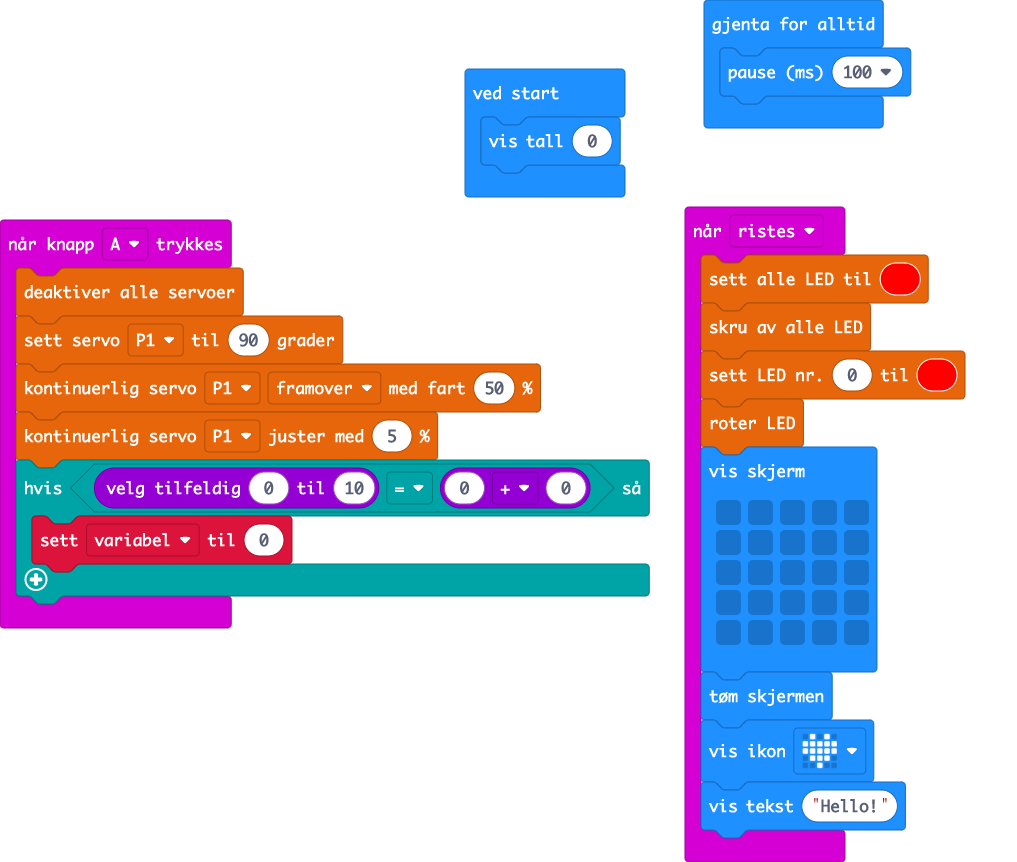
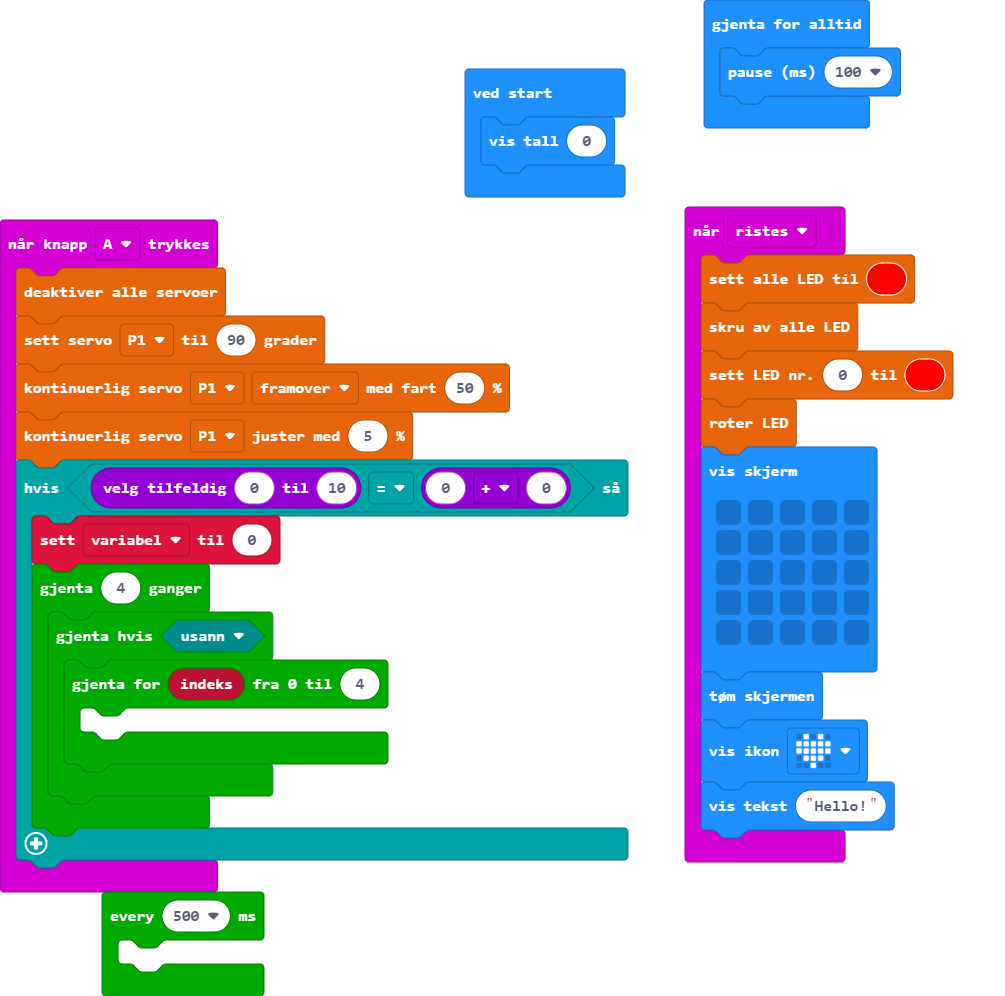
Lagt til løkker

diff --git a/main.ts b/main.ts
@@ -5,6 +5,13 @@ input.onButtonPressed(Button.A, function () {
     bitbot.bbServoTrim(BBServos.P1, 5)
     if (randint(0, 10) == 0 + 0) {
         variabel = 0
+        for (let index = 0; index < 4; index++) {
+            while (false) {
+                for (let indeks = 0; indeks <= 4; indeks++) {
+                	
+                }
+            }
+        }
     }
 })
 input.onGesture(Gesture.Shake, function () {
@@ -25,6 +32,9 @@ input.onGesture(Gesture.Shake, function () {
 })
 let variabel = 0
 basic.showNumber(0)
+loops.everyInterval(500, function () {
+	
+})
 basic.forever(function () {
     basic.pause(100)
 })

diff --git a/Servo.md b/Servo.md
@@ -12,6 +12,13 @@ input.onButtonPressed(Button.A, function () {
     bitbot.bbServoTrim(BBServos.P1, 5)
     if (randint(0, 10) == 0 + 0) {
         variabel = 0
+        for (let index = 0; index < 4; index++) {
+            while (false) {
+                for (let indeks = 0; indeks <= 4; indeks++) {
+                	
+                }
+            }
+        }
     }
 })
 input.onGesture(Gesture.Shake, function () {
